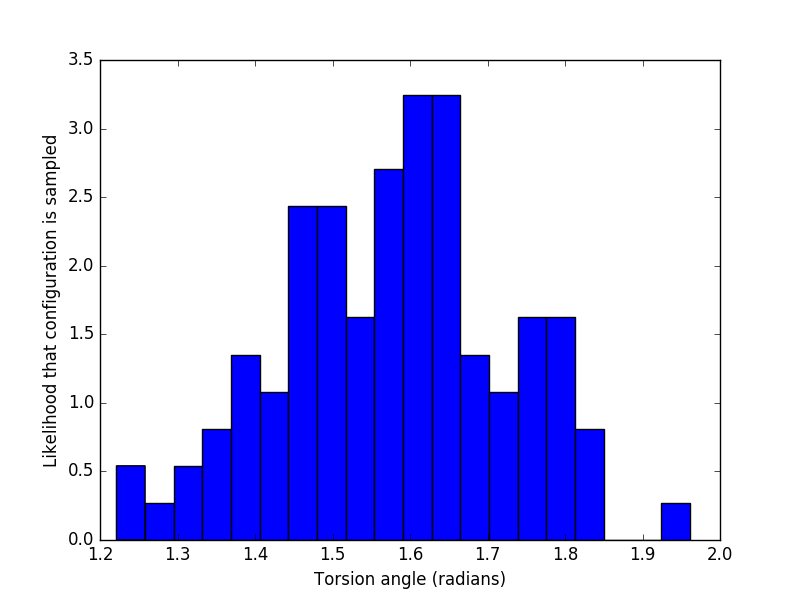
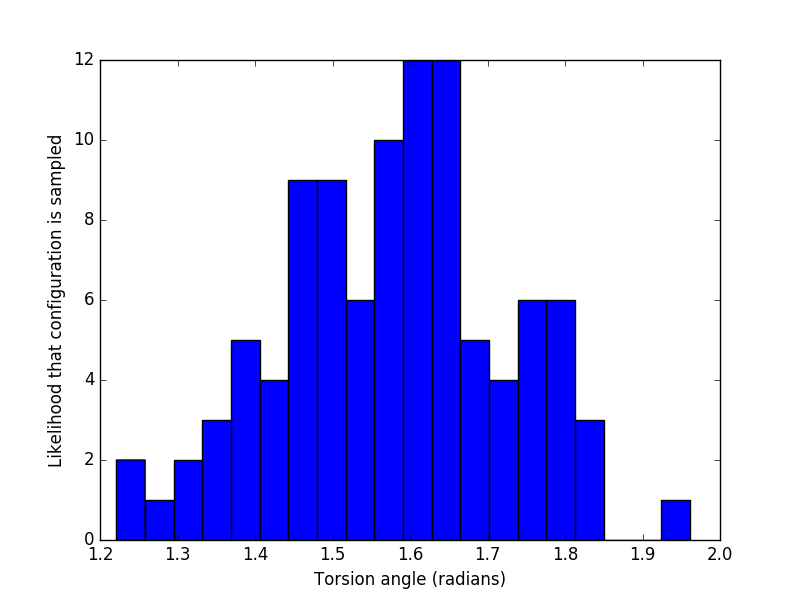
tors dist

diff --git a/single-molecule-property-generation/least_squares_fit_example.py b/single-molecule-property-generation/least_squares_fit_example.py
@@ -418,7 +418,7 @@ plt.savefig("some figure.png")
 num_bins = 20
 
 plt.figure()
-plt.hist(torsion, num_bins, normed=True)
+plt.hist(torsion, num_bins)
 plt.ylabel('Likelihood that configuration is sampled')
 plt.xlabel('Torsion angle (radians)')
 plt.savefig('Torsion_likelihood.png')
